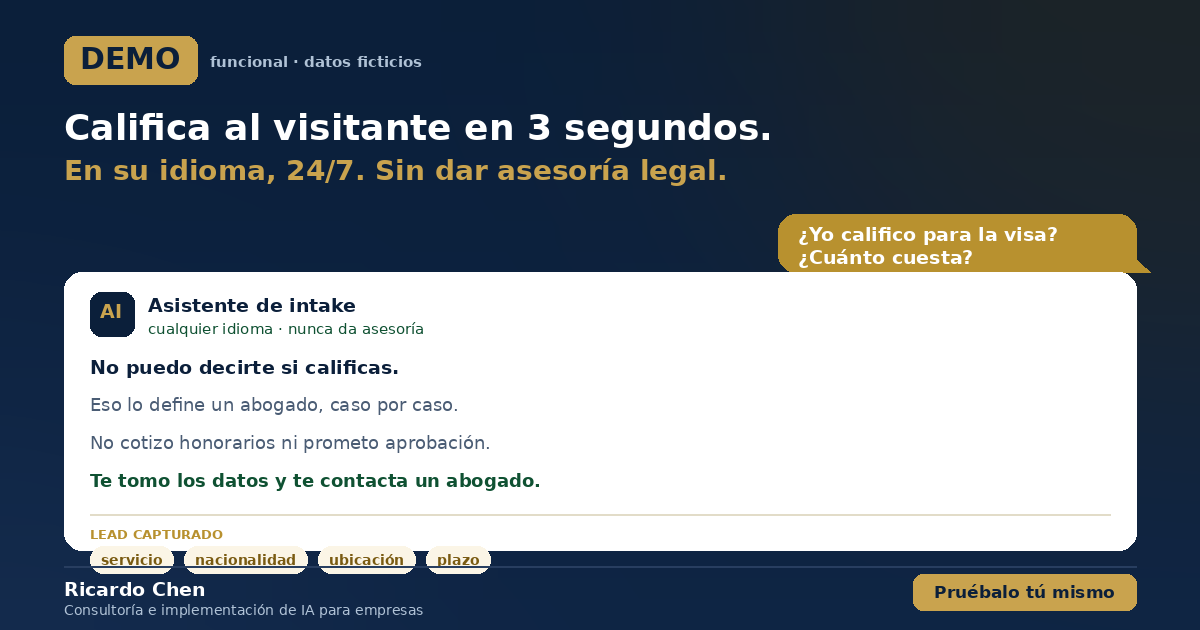
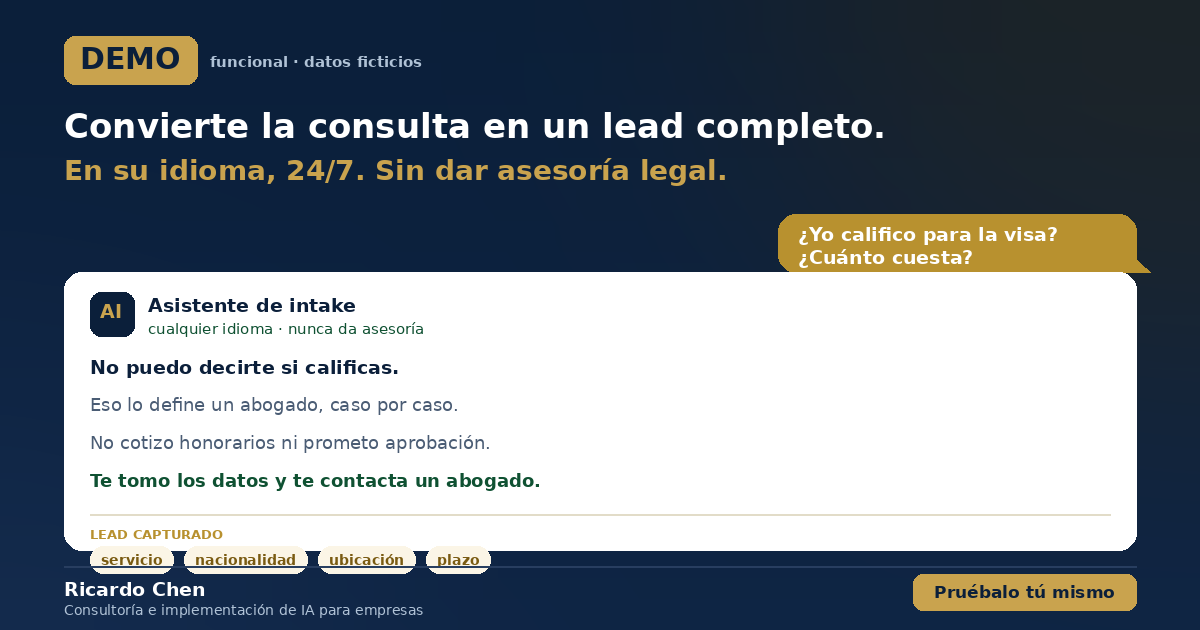
og-card: titular D — 'Convierte la consulta en un lead completo'

Changed region(s): [[0.0617, 0.181, 0.74, 0.2413]]

diff --git a/build_og.py b/build_og.py
@@ -45,7 +45,7 @@ d.rounded_rectangle([LX, 36, LX + seal, 84], radius=11, fill=GOLD)
 d.text((LX + 16, 41), "DEMO", font=fb(30), fill=NAVY)
 d.text((LX + seal + 13, 53), "funcional · datos ficticios", font=fb(15), fill=MUTED)
 
-d.text((LX, 106), "Califica al visitante en 3 segundos.", font=fb(36), fill=WHITE)
+d.text((LX, 106), "Convierte la consulta en un lead completo.", font=fb(34), fill=WHITE)
 d.text((LX, 154), "En su idioma, 24/7. Sin dar asesoría legal.", font=fb(28), fill=GOLD)
 
 # ---------- burbuja del visitante ----------
